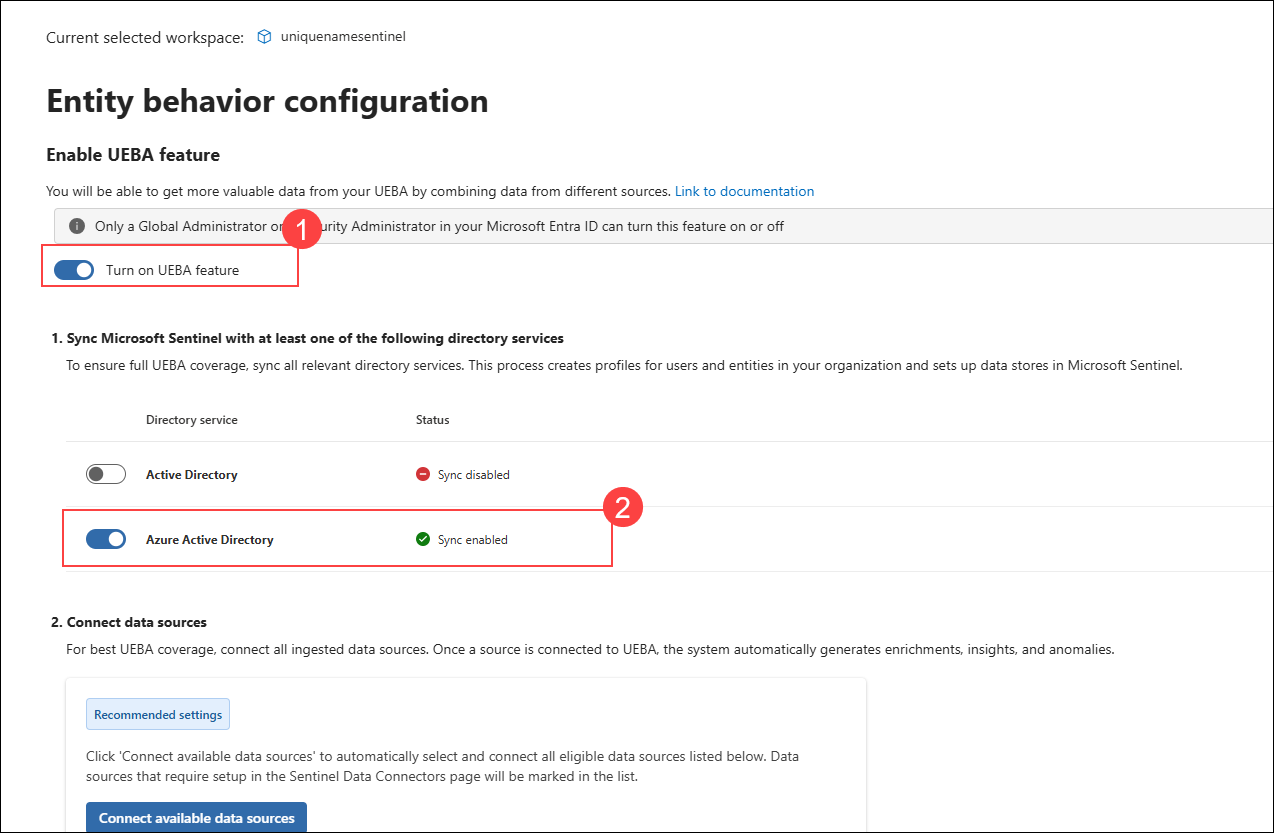
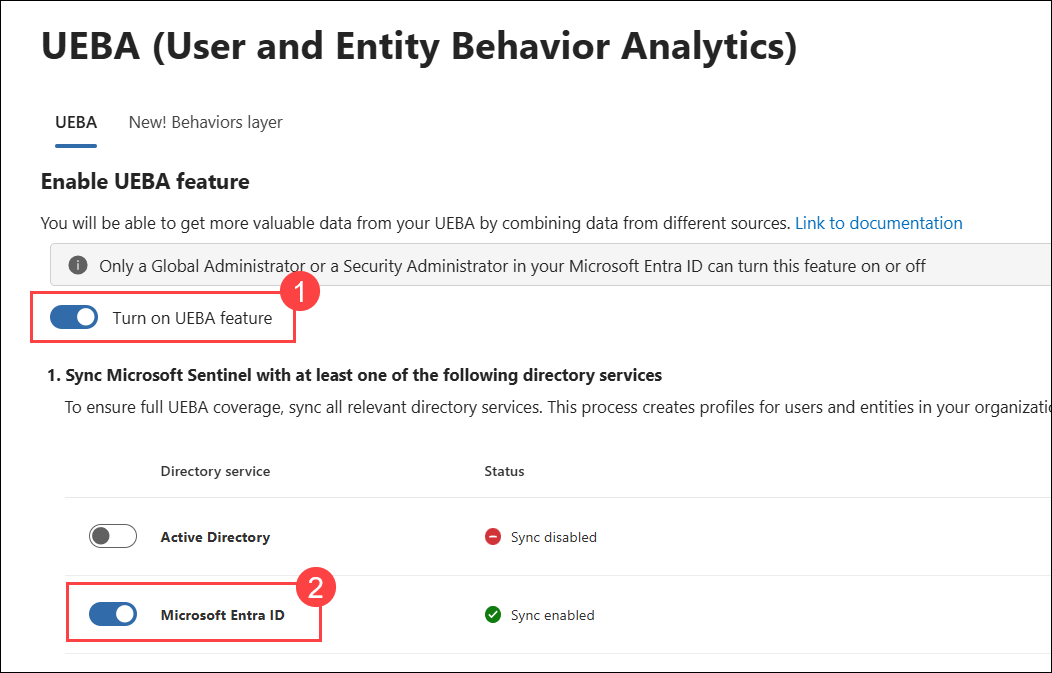
update

Changed region(s): [[0.0304, 0.0312, 1.0, 0.7177], [0.0, 0.7177, 1.0, 1.0]]

diff --git a/Threat Protection and Incident response with Microsoft Sentinel/Day1/Exercise2.md b/Threat Protection and Incident response with Microsoft Sentinel/Day1/Exercise2.md
@@ -34,9 +34,13 @@ In this lab, you will enable and configure data connectors in Microsoft Sentinel
  
  1. On the Content hub page, search for **Microsoft Entra ID (1)**, then select **Microsoft Entra ID (2)** Data connector from the dropdown list and click on **Install (3)** to install it.
 
+    > **Note:** If it doesn’t complete after a few minutes, you may be redirected to **Settings → Microsoft Sentinel**. Just **sign out** of all browser sessions and **sign in** again 2-3 times. 
+
     ![Picture 1](./images/Ex2-14.png)
 
-    > **Note:** If you cannot be performed for successfully for several minutes, the instructions will redirect to Settings-Sentinel until then. Signing out of all sessions in the browser and then signing in again may speed things up. 
+    > **Hint:** Zoom your browser to **70–80%** for a better view during the lab.
+
+    ![Picture 1](./images/Ex2-14a.png)
 
  1. From the left hand pane, click on **Configuration (1)** under **Microsoft Sentinel** select **Data connectors (2)** and expand **Microsoft Entra ID (3)** data connector and click on it, then select the **Open connector page (4)** on the connector information blade.
 
@@ -82,7 +86,7 @@ In this task, you will connect the Azure Activity connector.
 
    ![Picture](./images/Ex2-05.png)
 
-   >**Note:** If you cannot be performed for successfully for several minutes, the instructions will redirect to Settings-Sentinel until then. Signing out of all sessions in the browser and then signing in again may speed things up. 
+   >**Note:** If it doesn’t complete after a few minutes, you may be redirected to **Settings → Microsoft Sentinel**. Just **sign out** of all browser sessions and **sign in** again 2-3 times.  
 
 1. Now, navigate to **Data connectors** page, select the **Azure Activity (1)** Data connector, and select the **Open connector page (2)** on the connector information blade.
 
@@ -91,6 +95,10 @@ In this task, you will connect the Azure Activity connector.
 1. In the Configuration area, scroll down and under "2. Connect your subscriptions..." select **Launch Azure Policy Assignment wizard>**.
 
    ![Picture](./images/Ex2-07.png)
+
+1. In the **Basics** tab, select the ellipsis button **(...) (1)** under **Scope** and select your **subscription (2)** from the drop-down list and click **Select (3)**.
+
+   ![Picture](./images/Ex2-08.png)
 
 1. In the **Parameters** tab, click the ellipsis button **(...) (1)** next to **Primary Log Analytics workspace** and select your **workspace (2)** from the drop-down list and click **Select (3)**.
 
@@ -108,7 +116,6 @@ In this task, you will connect the Azure Activity connector.
 
     > **Note:** It may take **15–20 minutes** for the **Azure Activity** data connector to show a **Connected** status after configuration.
 
-
 ### Summary
 In this lab, you have integrated log data from various data sources within the organization into Microsoft Sentinel using appropriate data connectors.
 
@@ -117,4 +124,3 @@ In this lab, you have integrated log data from various data sources within the o
 ### Now, click on **Next >>** from the lower right corner to move on to the next page.
 
    ![](./images/Next.png)
-

diff --git a/Threat Protection and Incident response with Microsoft Sentinel/Day1/Exercise4.md b/Threat Protection and Incident response with Microsoft Sentinel/Day1/Exercise4.md
@@ -57,11 +57,7 @@ In this task, you will connect the Threat Intelligence data connector in Microso
 
 In this task, you will create an indicator in Microsoft Sentinel.
 
-1. On the left side menu, under **Microsoft Sentine** click on **Threat management (1)** and select **Threat intelligence (2)** under the Configuration.
-
-    ![](./images/Ex4-00.png)
-
-1. Navigate to Defender Portal, expand **Threat intelligence (1)** from the left hand menu and select **Intel management (2)**. 
+1. On the left side menu, expand **Threat intelligence (1)** from the left hand menu and select **Intel management (2)**. 
 
 1. On **Intel management** page, click on **+ New (3)** under Indicator, then select **TI object (4)**.
 
@@ -100,7 +96,7 @@ In this task, you will create an indicator in Microsoft Sentinel.
 
    ![](./images/Ex4-00-Az.png)
 
-1. Select the **Logs (1)** option under **General** on the left hand menu. 
+1. Select the **Logs (1)** option under **General** on the left hand menu and **Close** all the **pop-ups** if they appear.
 
    >**Note:** You may need to disable the "Always show Queries hub" option and close the *Queries* window to run the statements.
 
@@ -111,7 +107,7 @@ In this task, you will create an indicator in Microsoft Sentinel.
     ```
     ![](./images/KQL-0.png)
     
-    >**Note:** You may need to wait for 20 minutes to get the expected output.
+    >**Note:** You may need to wait for 20 minutes to get the expected output. Feel free to continue with the next task and come back to check later.
 
 1. Keep the working mode as **KQL mode (1)**, enter the below given query **(2)** to see the Observable Value column, then click **Run (3)** and in **Results (5)** section you should now, see the **ObservableValue with onmicrosoft.com domain** as an output of the query. 
 
@@ -122,7 +118,7 @@ In this task, you will create an indicator in Microsoft Sentinel.
     ```
    ![](./images/KQL-1.png)
 
-    >**Note:** You may need to wait for 20 minutes to get the expected output.
+    >**Note:** You may need to wait for 20 minutes to get the expected output. Feel free to continue with the next task and come back to check later.
 
 ### Task 4: Configure log retention
 

diff --git a/Threat Protection and Incident response with Microsoft Sentinel/Day1/Exercise5.md b/Threat Protection and Incident response with Microsoft Sentinel/Day1/Exercise5.md
@@ -30,7 +30,7 @@ In this task, you will explore Entity behavior analytics in Microsoft Sentinel.
 
     ![](./images/Ex4-00-2.png)
 
-1. Enable the **Turn on UEBA feature (1)** toggle and then enable the **Azure Active Directory (2)** toggle. 
+1. Enable the **Turn on UEBA feature (1)** toggle and then enable the **Microsoft Entra ID (2)** toggle. 
 
     ![](./images/Ex4-00-3.png)
 
@@ -38,7 +38,7 @@ In this task, you will explore Entity behavior analytics in Microsoft Sentinel.
 
 In this task, you will confirm that Anomalies analytics rules are enabled.
 
-1. In the Microsoft Defender portal, select **Analytics** under **Configuration** from the left hand pane
+1. In the Microsoft Defender portal, select **Analytics (2)** under **Configuration (1)** from the left hand pane
 
     ![](./images/Ex4-00-4.png)
 
@@ -66,7 +66,7 @@ In this task, you will confirm that Anomalies analytics rules are enabled.
 
     ![](./images/Ex4-06.png)
 
-1. Review the *General* tab information. Notice the *Status* is set to **Disabled (1)** *Mode* is **Flighting (2)** and then select **Next: Configuration> (3)**.
+1. Review the *General* tab information. **Notice** the *Status* is set to **Disabled (1)** *Mode* is **Flighting (2)** and then select **Next: Configuration> (3)**.
 
     ![](./images/Ex4-07.png)
 
